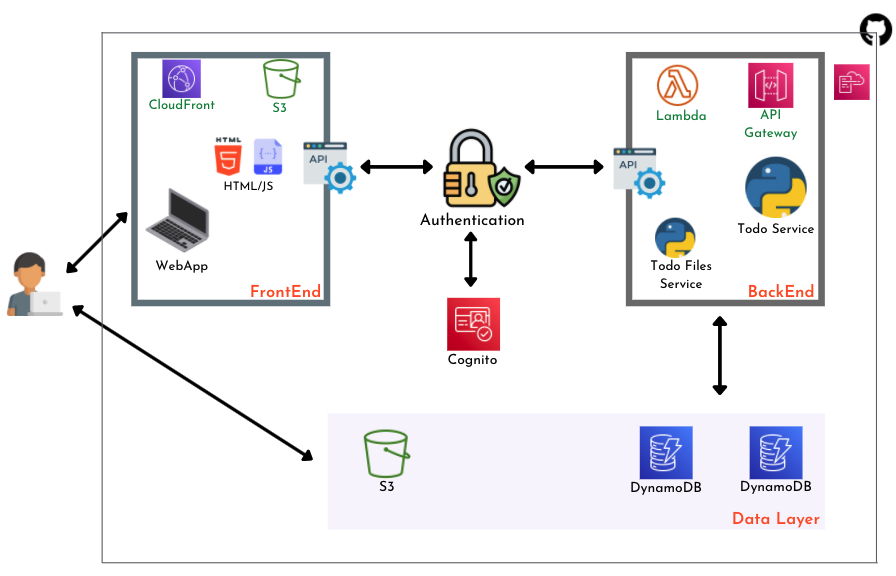
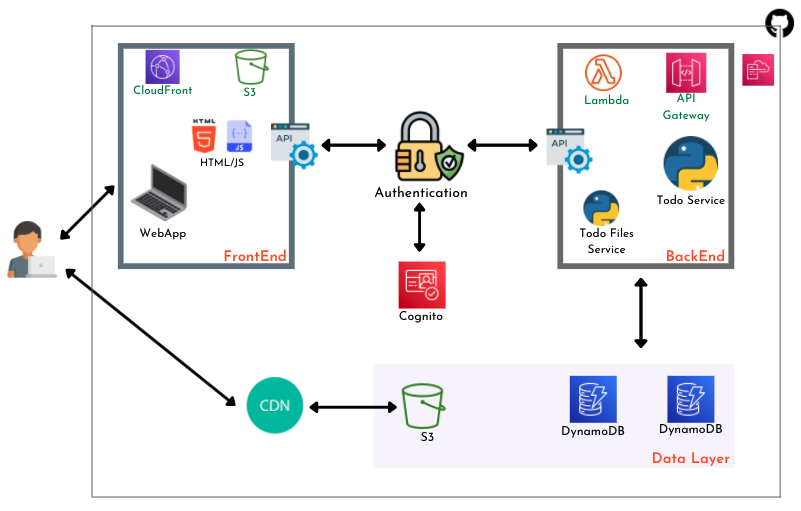
added cdn for files service

diff --git a/frontend/js/script.js b/frontend/js/script.js
@@ -547,7 +547,7 @@ function uploadTodoFileS3(todoID, bucket, filesToUp, callback){
                     console.log(err, err.stack);
                     alert("Failed to upload file " + fileName);
                 } else {
-                    console.log(fileName + ' successfully uploaded for' + todoID);
+                    console.log(fileName + ' successfully uploaded for ' + todoID);
                     var fileObj = {
                         'fileName': fileName,
                         'filePath': filePath

diff --git a/backend/attachments-service/functions/addTodoFiles.py b/backend/attachments-service/functions/addTodoFiles.py
@@ -9,6 +9,7 @@ dynamo = boto3.client('dynamodb', region_name='us-east-1')
 logger = logging.getLogger()
 logger.setLevel(logging.INFO)
 
+bucket = os.environ['TODOFILES_BUCKET_CDN']
 bucketCDN = os.environ['TODOFILES_BUCKET_CDN']
 
 def lambda_handler(event, context):
@@ -18,6 +19,7 @@ def lambda_handler(event, context):
     fileName = eventBody["fileName"]
     fileID = str(uuid.uuid4())
     filePath = eventBody["filePath"]
+    fileKey = str(filePath).replace(f'https://{bucket}/.s3.amazonaws.com/','')
     filePathCDN = 'https://' + bucketCDN + '/' + filePath
     fileForDynamo = {}
     fileForDynamo["fileID"] =  {
